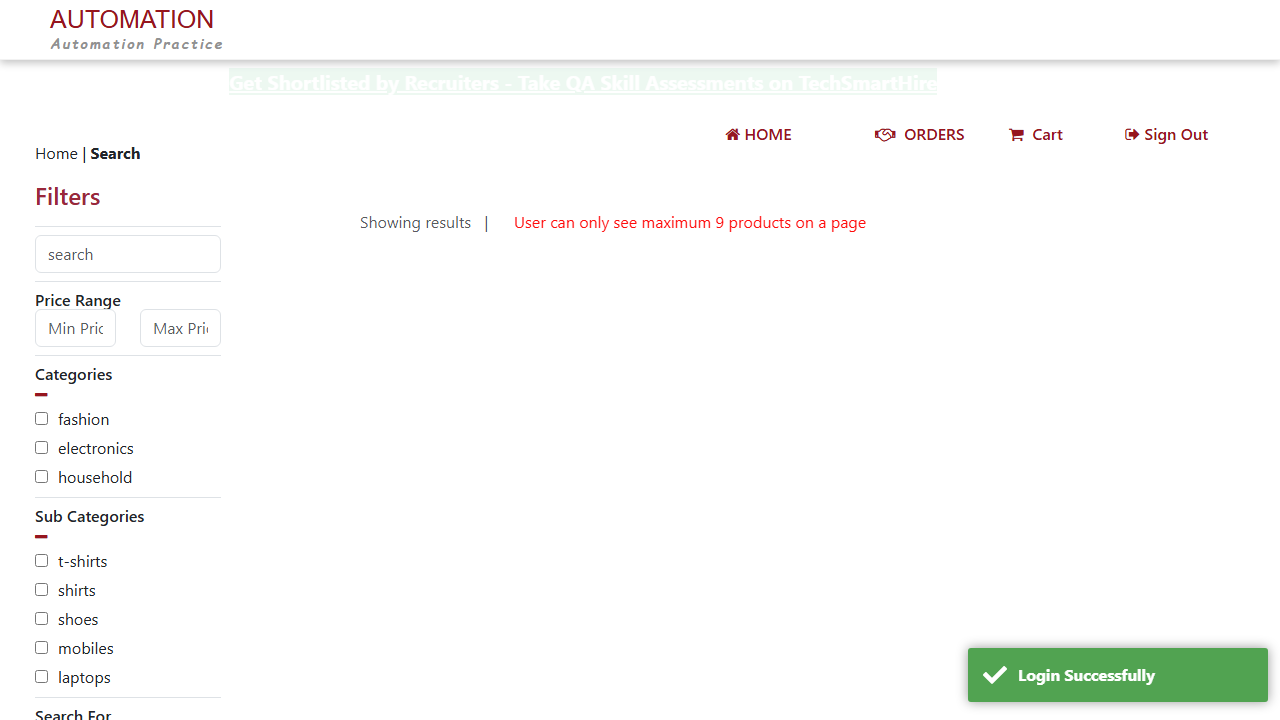
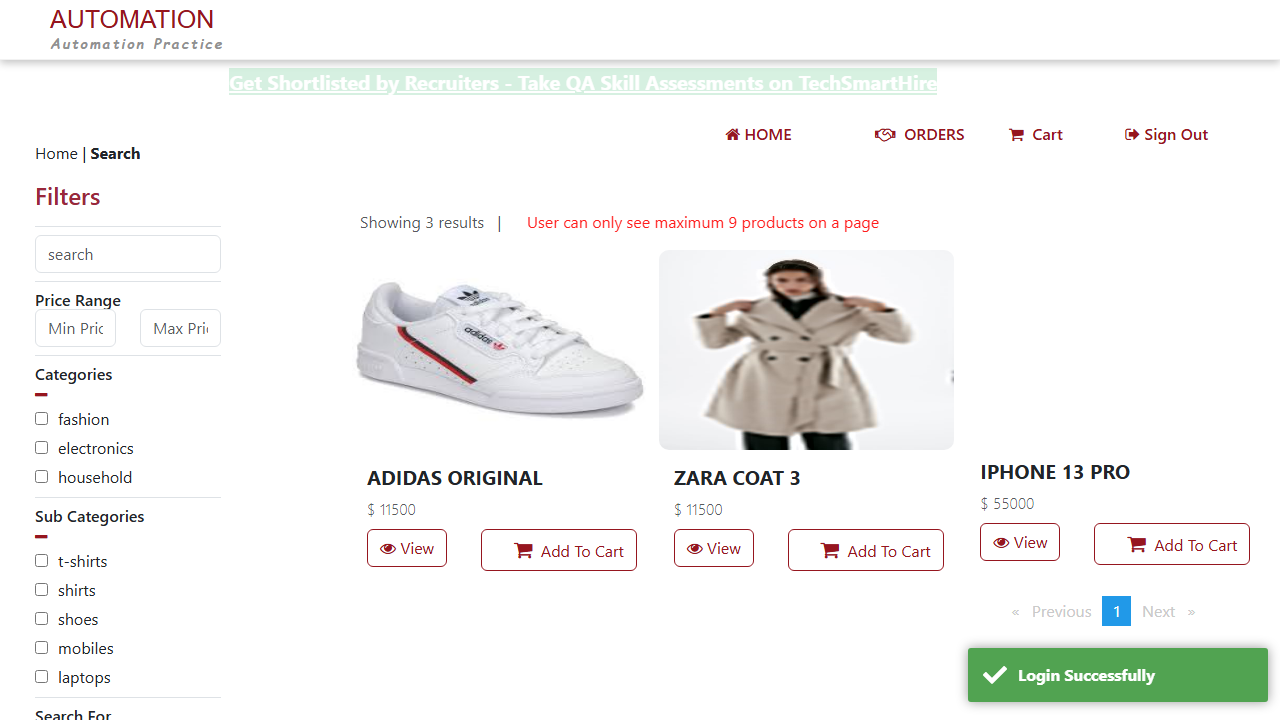
new updates

diff --git a/e2e/practice.spec.ts b/e2e/practice.spec.ts
@@ -1,0 +1,25 @@
+
+
+import { test, expect } from '@playwright/test';
+import { LoginPage } from '../Pages/loginPage';
+
+test.describe("Rahul shetty practice page", () => {
+    test("Handle radio buttons  ", async ({ page }) => {
+        const loginPage = new LoginPage(page);
+        await loginPage.navigateTo("https://rahulshettyacademy.com/AutomationPractice/");
+
+        await page.waitForLoadState('domcontentloaded');
+        // Find the list item that contains specific text
+        const radiobutton = page.getByRole('radio', { name: /Radio3/i });
+        await radiobutton.click();
+        await expect(radiobutton).toBeChecked();
+
+
+
+
+
+    })
+})
+ 
+
+

diff --git a/playwright.config.ts b/playwright.config.ts
@@ -24,7 +24,11 @@ export default defineConfig({
   /* Opt out of parallel tests on CI. */
   workers: process.env.CI ? 1 : undefined,
   /* Reporter to use. See https://playwright.dev/docs/test-reporters */
-  reporter: 'html',
+  reporter:   [
+    ['list'],
+    ['json', {  outputFile: 'test-results.json' }],
+    ['html']
+  ],
   /* Shared settings for all the projects below. See https://playwright.dev/docs/api/class-testoptions. */
   use: {
     /* Base URL to use in actions like `await page.goto('')`. */